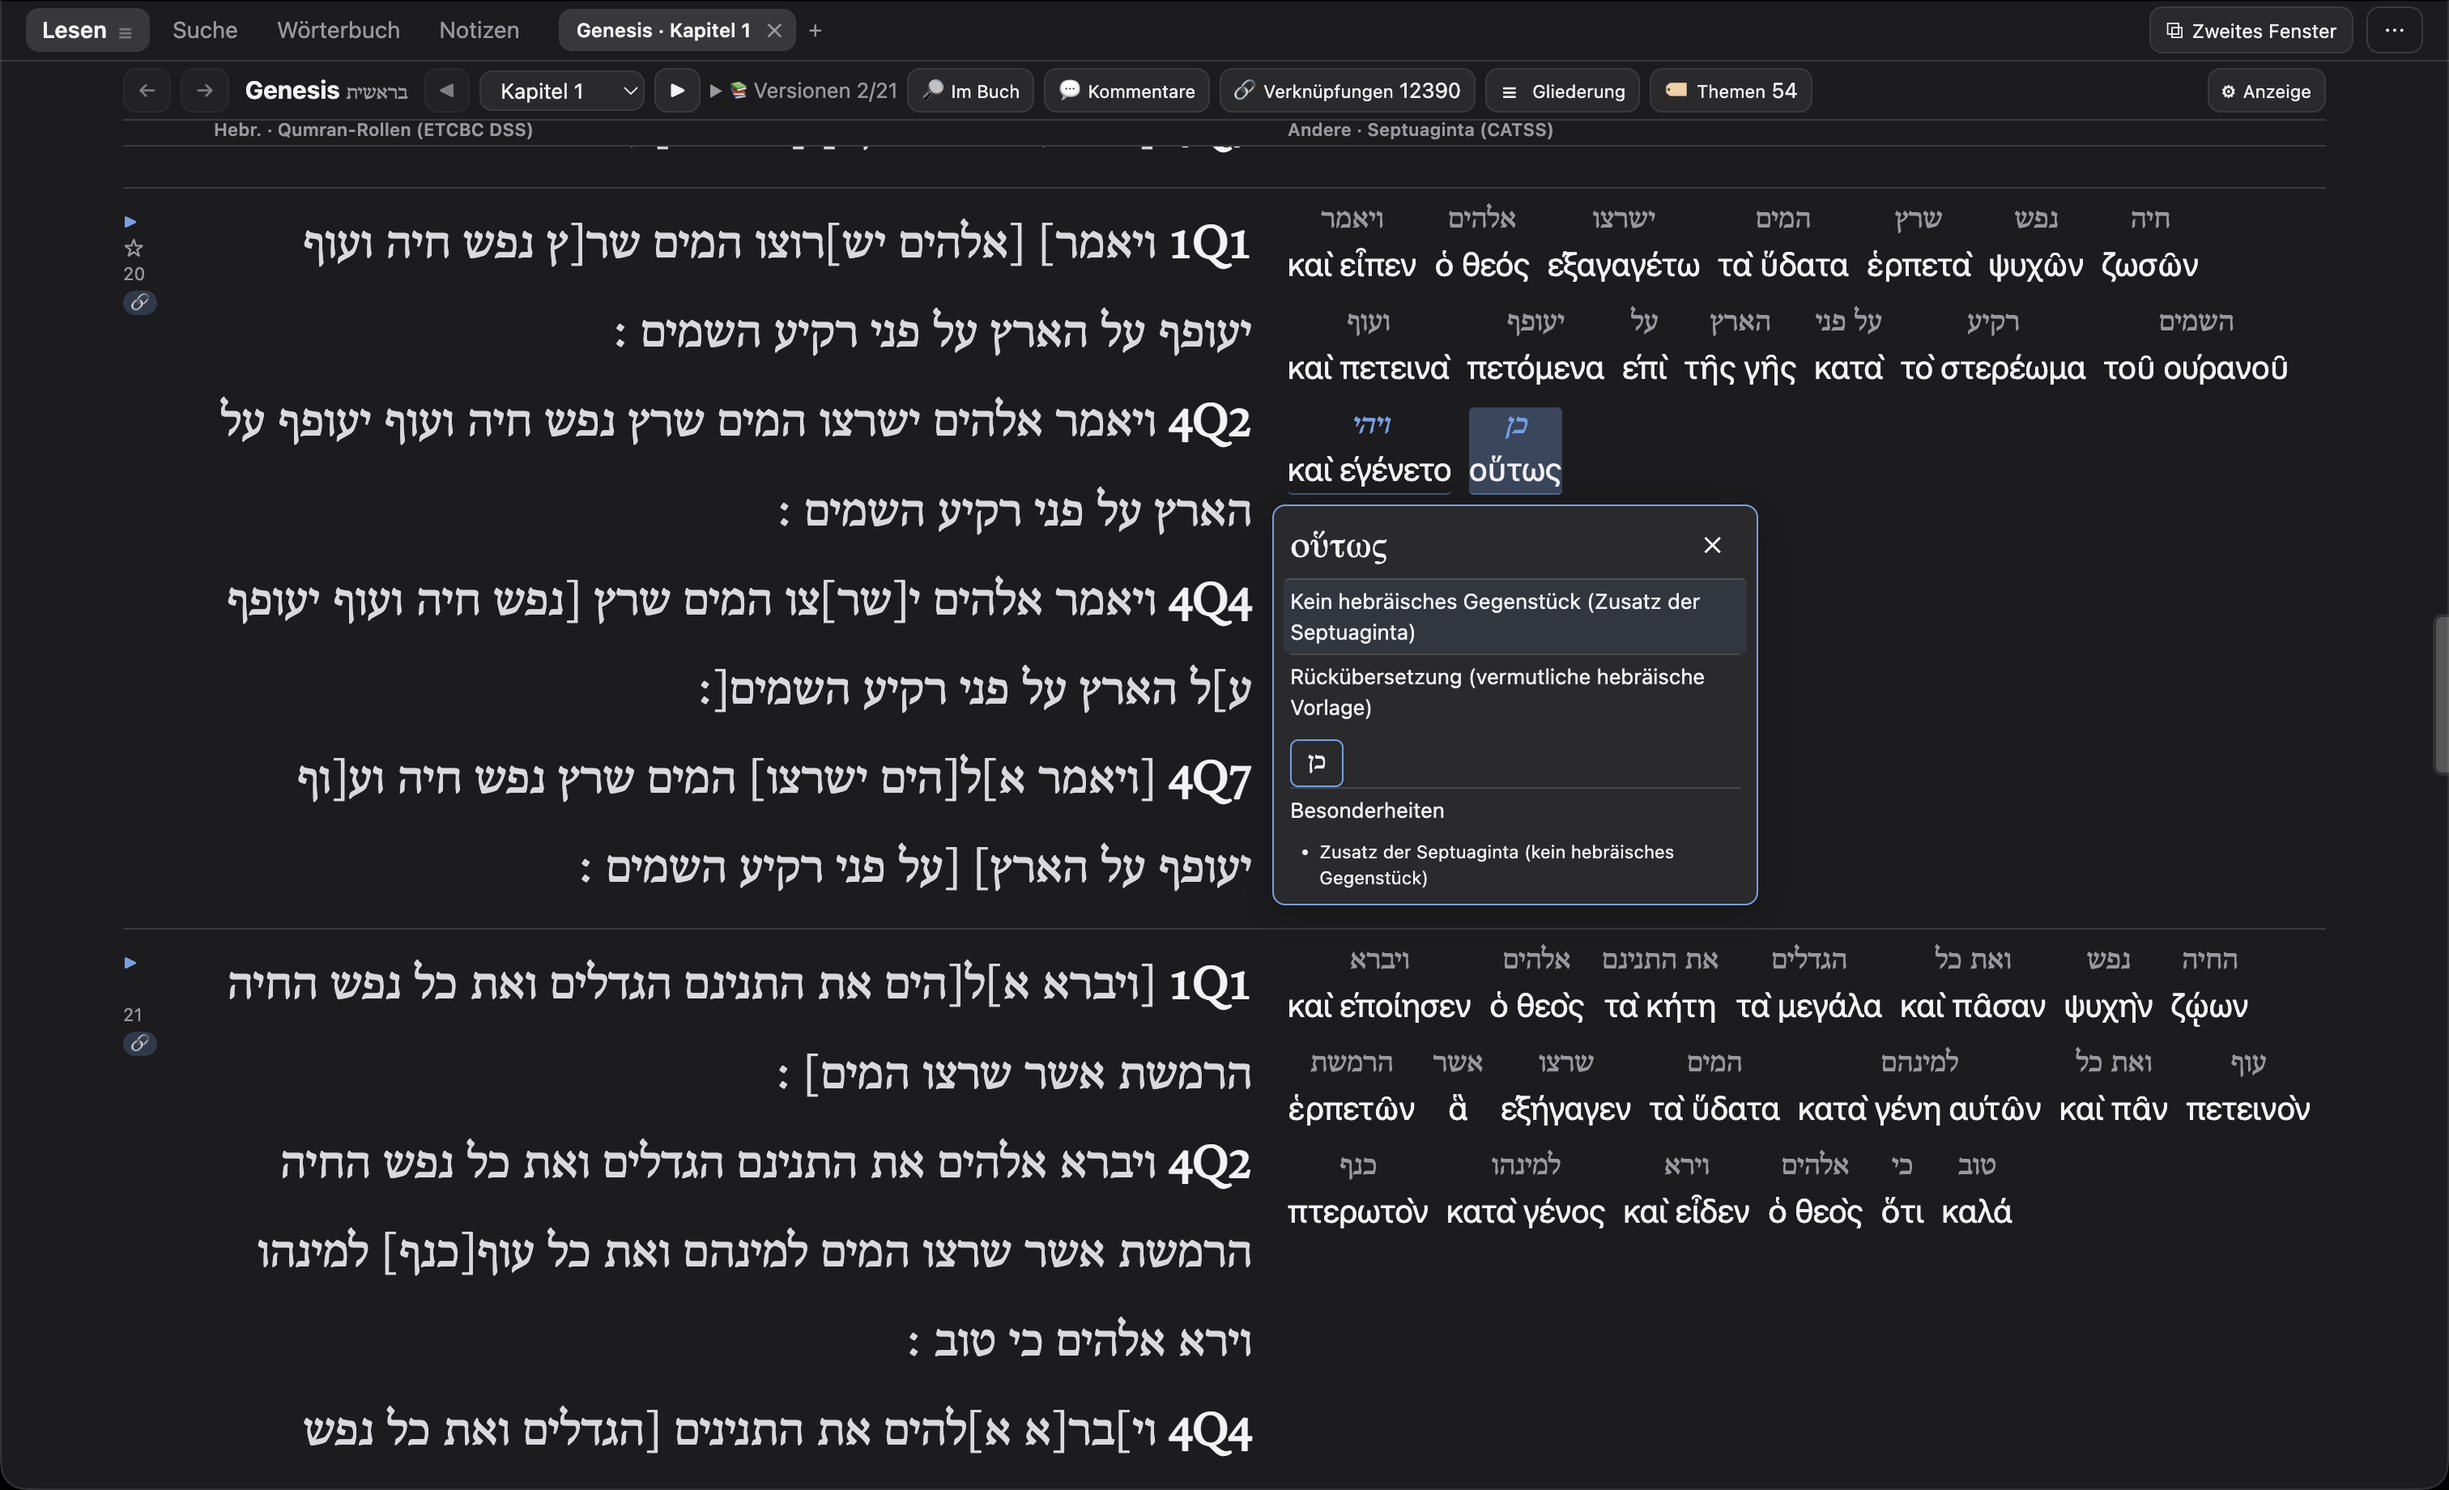
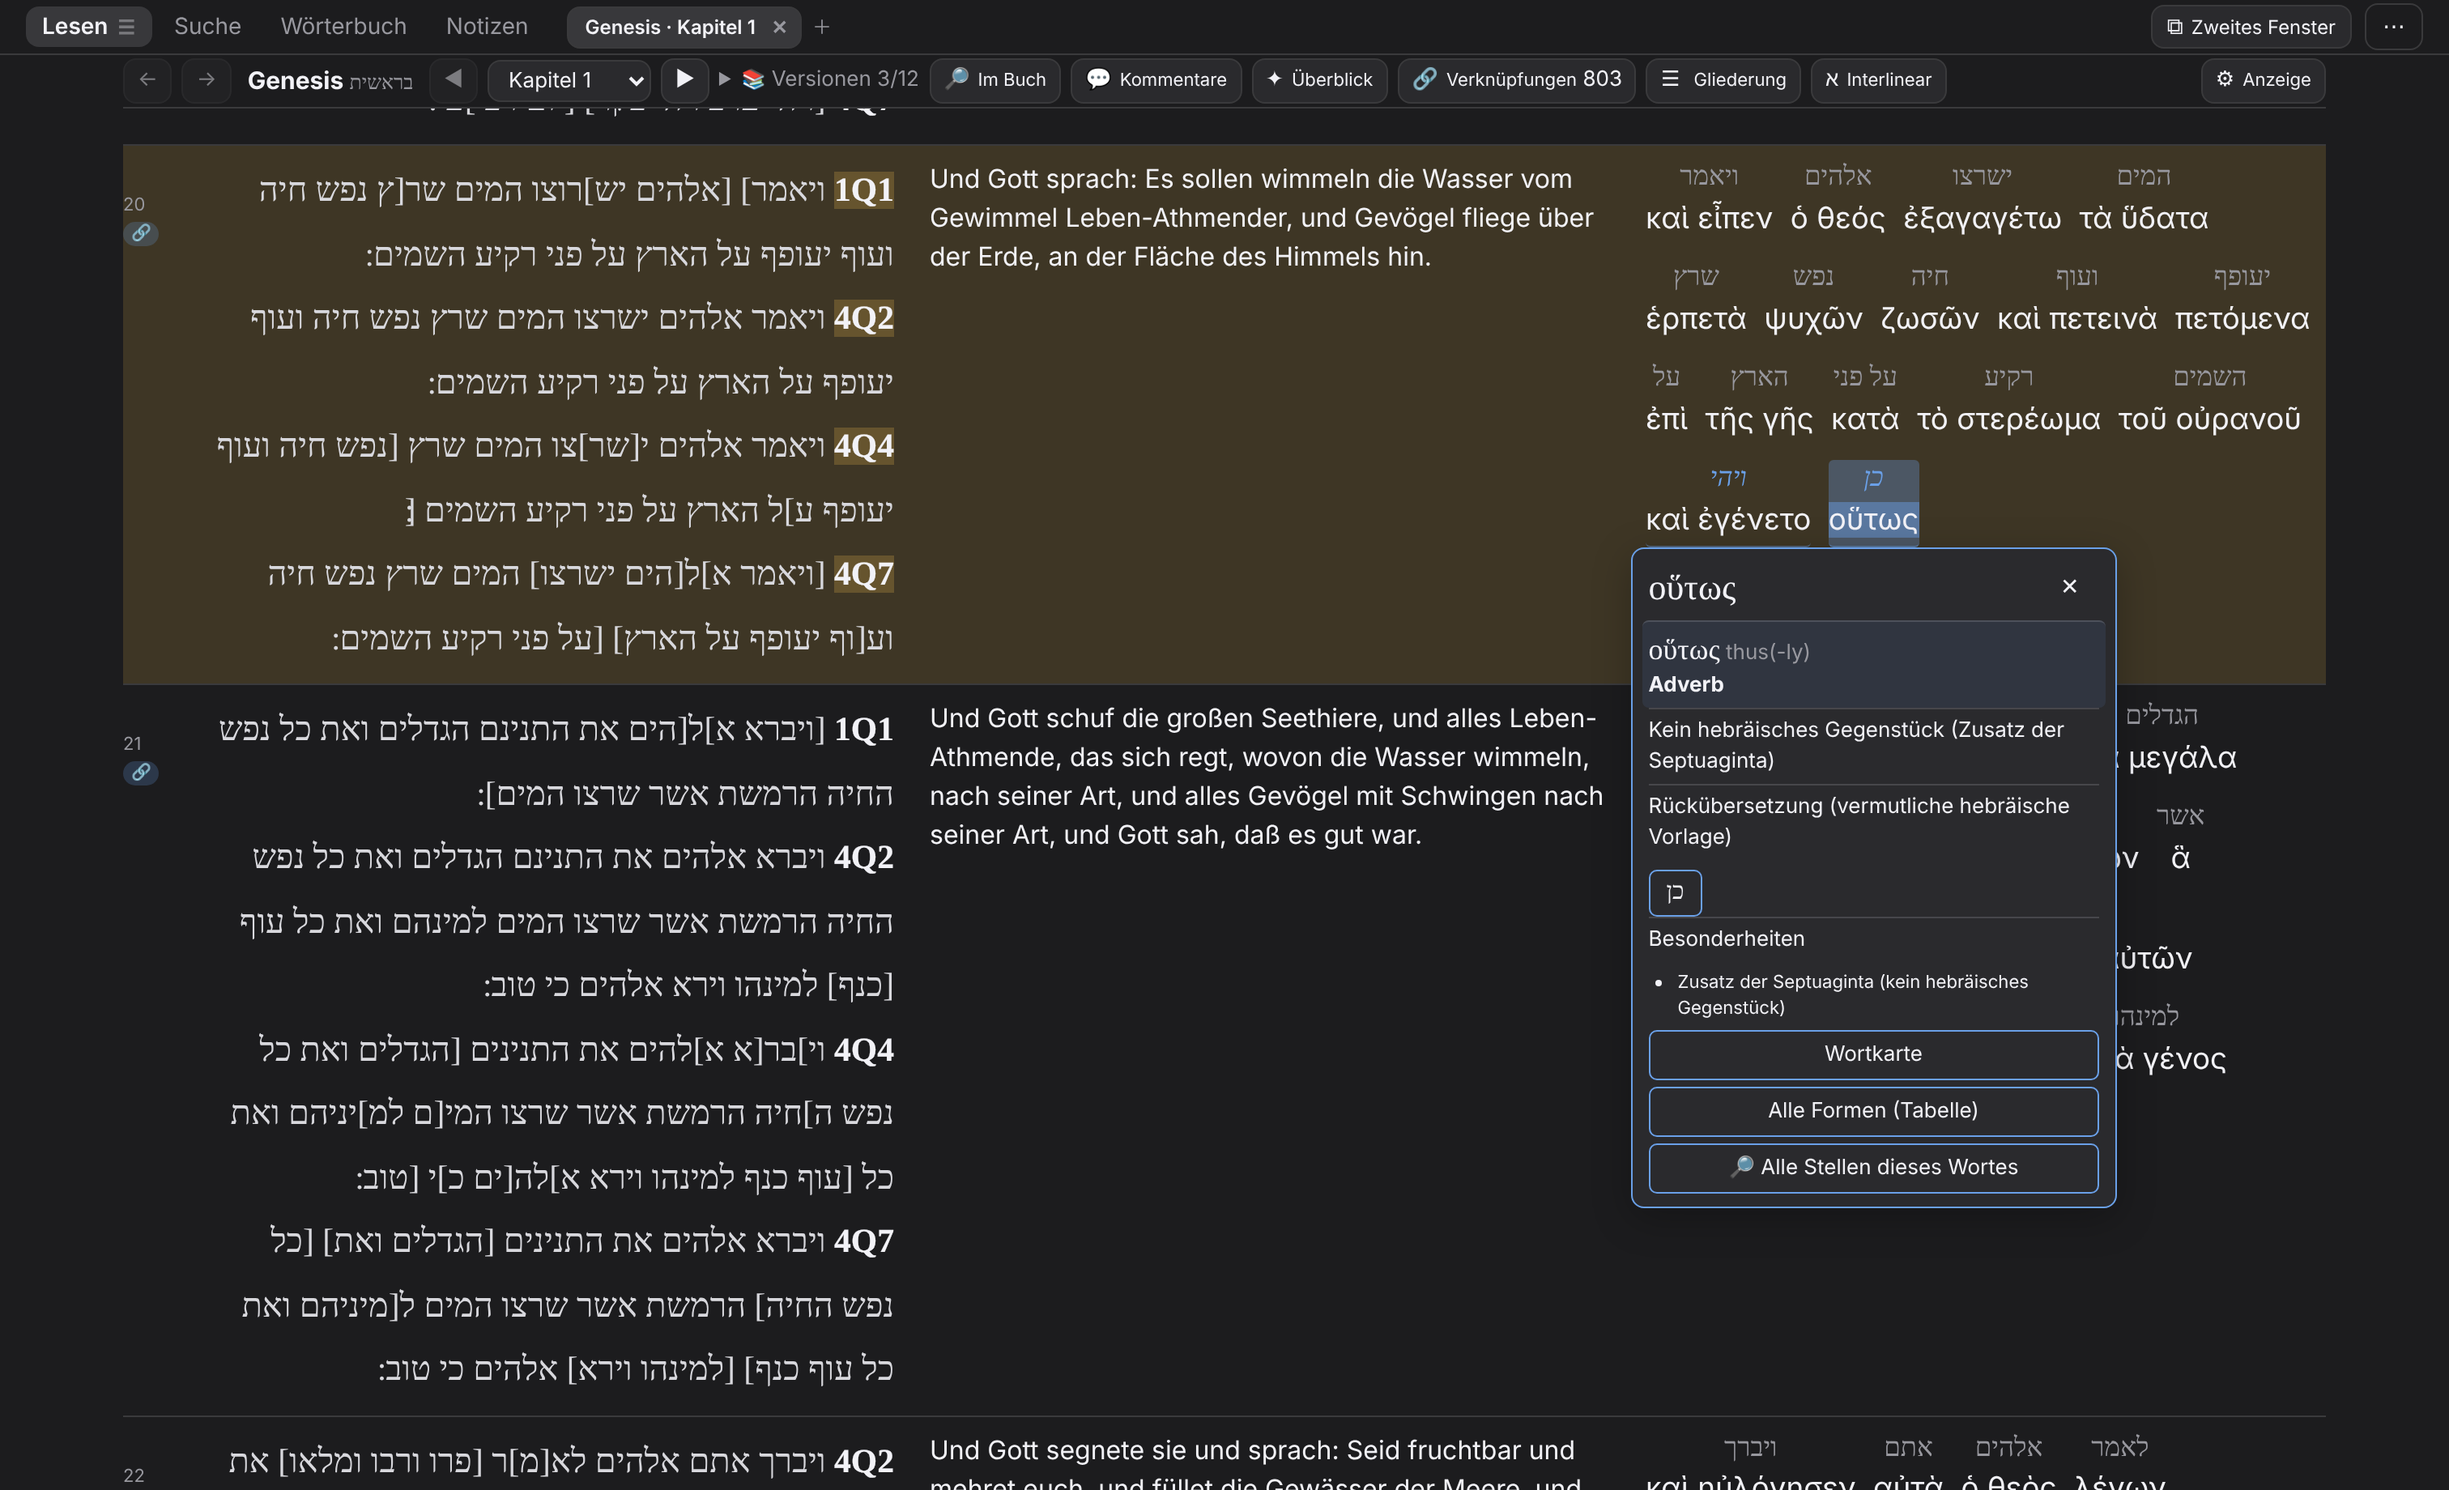
README: YouTube-Vorschaubild zurück; LXX-Vergleich, Suche, Karte und Tour-GIF neu aufgenommen (dunkel, nur öffentliche Texte)
Claude-Session: https://claude.ai/code/session_014KsyjYwAAUN37D3y3Wsm5E

diff --git a/README.de.md b/README.de.md
@@ -23,6 +23,11 @@
   <sub>Genesis 1 als Interlinear: unter jedem hebräischen Wort das Deutsch von Zunz (1838) und Goldschmidt (1921). Ein Klick auf ein Wort hebt sein Gegenstück in der fortlaufenden Übersetzung hervor.</sub>
 </p>
 
+<p align="center">
+  <a href="https://www.youtube.com/watch?v=_htLzC7Q3Ug"><img src="https://img.youtube.com/vi/_htLzC7Q3Ug/maxresdefault.jpg" alt="Safran-Überblicksvideo auf YouTube ansehen" width="600"></a><br>
+  <sub>▶ Überblicksvideo auf YouTube ansehen</sub>
+</p>
+
 Safran ist eine kostenlose Desktop-App für macOS, Windows und Linux, die deine Texte auf dem eigenen Rechner hält. Du wählst einmal die Bücher und Sprachen aus der [Sefaria](https://www.sefaria.org)-Bibliothek und liest, durchsuchst und kommentierst sie danach ohne Internetverbindung. Neu in 2.5.0: der **ganze Tanach Wort für Wort auf Deutsch** (Interlinear) und eine **Wortkarte**, die zeigt, wie ein hebräisches Wort übersetzt wird. Dazu bringt Safran **über 50 deutsche Werke** mit (Übersetzungen, Kommentare und Nachschlagewerke), die es sonst kaum gibt, darunter Louis Ginzbergs *Legenden der Juden* nach seinem deutschen Manuskript, und **acht Wörterbücher und Nachschlagewerke** mit über 100.000 Einträgen. Safran ist ein unabhängiges Projekt und nicht mit Sefaria verbunden.
 
 ## Warum Safran?
@@ -118,7 +123,7 @@ Und alles Weitere:
 </p>
 
 <p align="center">
-  <a href="screenshots/lxx-comparison.png"><img src="screenshots/lxx-comparison.png" alt="Genesis 1,20 mit den Qumran-Rollen links und der Septuaginta rechts; über jeder griechischen Wortgruppe steht das hebräische Gegenstück, und ein angeklicktes Plus der Septuaginta zeigt seine wahrscheinliche hebräische Rückübersetzung" width="900"></a><br>
+  <a href="screenshots/lxx-comparison.png"><img src="screenshots/lxx-comparison.png" alt="Genesis 1,20 mit den Qumran-Rollen links, Zunz in der Mitte und der Septuaginta rechts; über jeder griechischen Wortgruppe steht das hebräische Gegenstück, und ein angeklicktes Plus der Septuaginta zeigt seine wahrscheinliche hebräische Rückübersetzung" width="900"></a><br>
   <sub>LXX-MT-Vergleich: das hebräische Gegenstück über jeder griechischen Wortgruppe, Plus und Minus der Septuaginta markiert; ein Klick auf ein Plus zeigt die wahrscheinliche hebräische Rückübersetzung.</sub>
 </p>
 
@@ -191,8 +196,8 @@ Ebenfalls enthalten: der Westminster Leningrad Codex mit Morphologie (OSHB), der
 ## Weitere Bildschirmfotos
 
 <p align="center">
-  <img src="screenshots/safran-tour.gif" alt="Kurze Tour: Genesis mit Kommentar und Wörterbuch neben dem Text, danach die Gliederung von Jeremia" width="900"><br>
-  <sub>Kurze Tour: Kommentar und Wörterbuch neben dem Text angepinnt, dazu das Gliederungsfenster eines Buches.</sub>
+  <img src="screenshots/safran-tour.gif" alt="Kurze Tour durch Genesis 1: Interlinear mit Zunz und Goldschmidt einschalten, eine Wortkarte mit Formentabelle, Alles zu dieser Stelle und Nachschlagen im Wörterbuch" width="900"><br>
+  <sub>Kurze Tour: Interlinear, Wortkarte mit Formentabelle, <i>Alles zu dieser Stelle</i> und Nachschlagen im Wörterbuch per Doppelklick.</sub>
 </p>
 
 <details>
@@ -204,13 +209,13 @@ Ebenfalls enthalten: der Westminster Leningrad Codex mit Morphologie (OSHB), der
 </p>
 
 <p align="center">
-  <a href="screenshots/search-advanced.png"><img src="screenshots/search-advanced.png" alt="Suche-Reiter: anf*, gott und erd* im Abstand von 10 Wörtern, Verteilungsdiagramm je Buch, Treffer nach Buch und Kategorienfilter" width="900"></a><br>
+  <a href="screenshots/search-advanced.png"><img src="screenshots/search-advanced.png" alt="Suche-Reiter: anf* gott erd* mit höchstens 10 Wörtern Abstand in den deutschen Texten, Verteilungsdiagramm je Buch, Treffer nach Buch und Kategorienfilter" width="900"></a><br>
   <sub>Erweiterte Suche: Platzhalter und Wörter in der Nähe, ein Diagramm der Treffer je Buch und ein Kategorienfilter.</sub>
 </p>
 
 <p align="center">
-  <a href="screenshots/map-israel.png"><img src="screenshots/map-israel.png" alt="Kartenfenster zu Josua 10: Route des Südfeldzugs, eine Messung von 39 km mit Höhenprofil und die Orte des Kapitels" width="900"></a><br>
-  <sub>Bibelkarte: Routen aus dem Text, Entfernungen messen mit Höhenprofil und alle Orte des Kapitels.</sub>
+  <a href="screenshots/map-israel.png"><img src="screenshots/map-israel.png" alt="Josua 10 mit der Karte neben dem Text: die Route des Südfeldzugs, der erste Abschnitt mit 35 km gemessen, dazu das Höhenprofil" width="900"></a><br>
+  <sub>Bibelkarte: Routen aus dem Text und Entfernungen messen mit Höhenprofil; die Orte des Kapitels stehen unter der Karte.</sub>
 </p>
 
 </details>

diff --git a/README.md b/README.md
@@ -23,6 +23,11 @@
   <sub>Genesis 1 as an interlinear: under every Hebrew word the German of Zunz (1838) and Goldschmidt (1921). A click on a word highlights its counterpart in the running translation.</sub>
 </p>
 
+<p align="center">
+  <a href="https://www.youtube.com/watch?v=_htLzC7Q3Ug"><img src="https://img.youtube.com/vi/_htLzC7Q3Ug/maxresdefault.jpg" alt="Watch the Safran overview video on YouTube" width="600"></a><br>
+  <sub>▶ Watch the overview video on YouTube</sub>
+</p>
+
 Safran is a free desktop app for macOS, Windows and Linux that keeps your texts on your own computer. Pick the books and languages you want from the [Sefaria](https://www.sefaria.org) library once, and read, search and annotate them afterwards without an internet connection. New in 2.5.0: the **whole Tanakh word by word in German** (interlinear) and a **word card** that shows how a Hebrew word is translated. On top of that, Safran ships **more than 50 German works** (translations, commentaries and reference works) that are hard to find anywhere else, among them Louis Ginzberg's *Legenden der Juden* from his German manuscript, plus **eight dictionaries and reference works** with more than 100,000 entries. Safran is an independent project and not affiliated with Sefaria.
 
 ## Why Safran?
@@ -118,7 +123,7 @@ And everything else:
 </p>
 
 <p align="center">
-  <a href="screenshots/lxx-comparison.png"><img src="screenshots/lxx-comparison.png" alt="Genesis 1:20 with the Qumran scrolls on the left and the Septuagint on the right; each Greek word group has its Hebrew counterpart above it, and a clicked plus of the Septuagint shows its likely Hebrew retroversion" width="900"></a><br>
+  <a href="screenshots/lxx-comparison.png"><img src="screenshots/lxx-comparison.png" alt="Genesis 1:20 with the Qumran scrolls on the left, Zunz in the middle and the Septuagint on the right; each Greek word group has its Hebrew counterpart above it, and a clicked plus of the Septuagint shows its likely Hebrew retroversion" width="900"></a><br>
   <sub>LXX–MT comparison: the Hebrew counterpart above every Greek word group, pluses and minuses of the Septuagint marked, and a click on a plus shows the likely Hebrew retroversion.</sub>
 </p>
 
@@ -191,8 +196,8 @@ Also bundled: the Westminster Leningrad Codex with morphology (OSHB), the Aleppo
 ## More screenshots
 
 <p align="center">
-  <img src="screenshots/safran-tour.gif" alt="Short tour: Genesis with commentary and dictionary pinned beside the text, then the outline of Jeremiah" width="900"><br>
-  <sub>Short tour: commentary and dictionary pinned beside the text, and the outline panel of a book.</sub>
+  <img src="screenshots/safran-tour.gif" alt="Short tour through Genesis 1: switching on the interlinear with Zunz and Goldschmidt, a word card with its forms table, Everything on this passage, and a dictionary lookup" width="900"><br>
+  <sub>Short tour: interlinear, word card with forms table, <i>Everything on this passage</i>, and a dictionary lookup by double-click.</sub>
 </p>
 
 <details>
@@ -204,13 +209,13 @@ Also bundled: the Westminster Leningrad Codex with morphology (OSHB), the Aleppo
 </p>
 
 <p align="center">
-  <a href="screenshots/search-advanced.png"><img src="screenshots/search-advanced.png" alt="Search tab: anf*, gott and erd* within 10 words, distribution chart per book, hits by book and category filter" width="900"></a><br>
+  <a href="screenshots/search-advanced.png"><img src="screenshots/search-advanced.png" alt="Search tab: anf* gott erd* within 10 words in the German texts, distribution chart per book, hits by book and category filter" width="900"></a><br>
   <sub>Advanced search: wildcards and words near each other, a chart of hits per book, and a category filter.</sub>
 </p>
 
 <p align="center">
-  <a href="screenshots/map-israel.png"><img src="screenshots/map-israel.png" alt="Map panel for Joshua 10: the southern campaign route, a distance measurement of 39 km with an elevation profile, and the places of the chapter" width="900"></a><br>
-  <sub>Bible map: routes from the text, distance measuring with an elevation profile, and all places of the chapter.</sub>
+  <a href="screenshots/map-israel.png"><img src="screenshots/map-israel.png" alt="Joshua 10 with the map pinned beside the text: the route of the southern campaign, its first leg measured at 35 km with an elevation profile" width="900"></a><br>
+  <sub>Bible map: routes from the text and distance measuring with an elevation profile; the places of the chapter are listed below the map.</sub>
 </p>
 
 </details>
